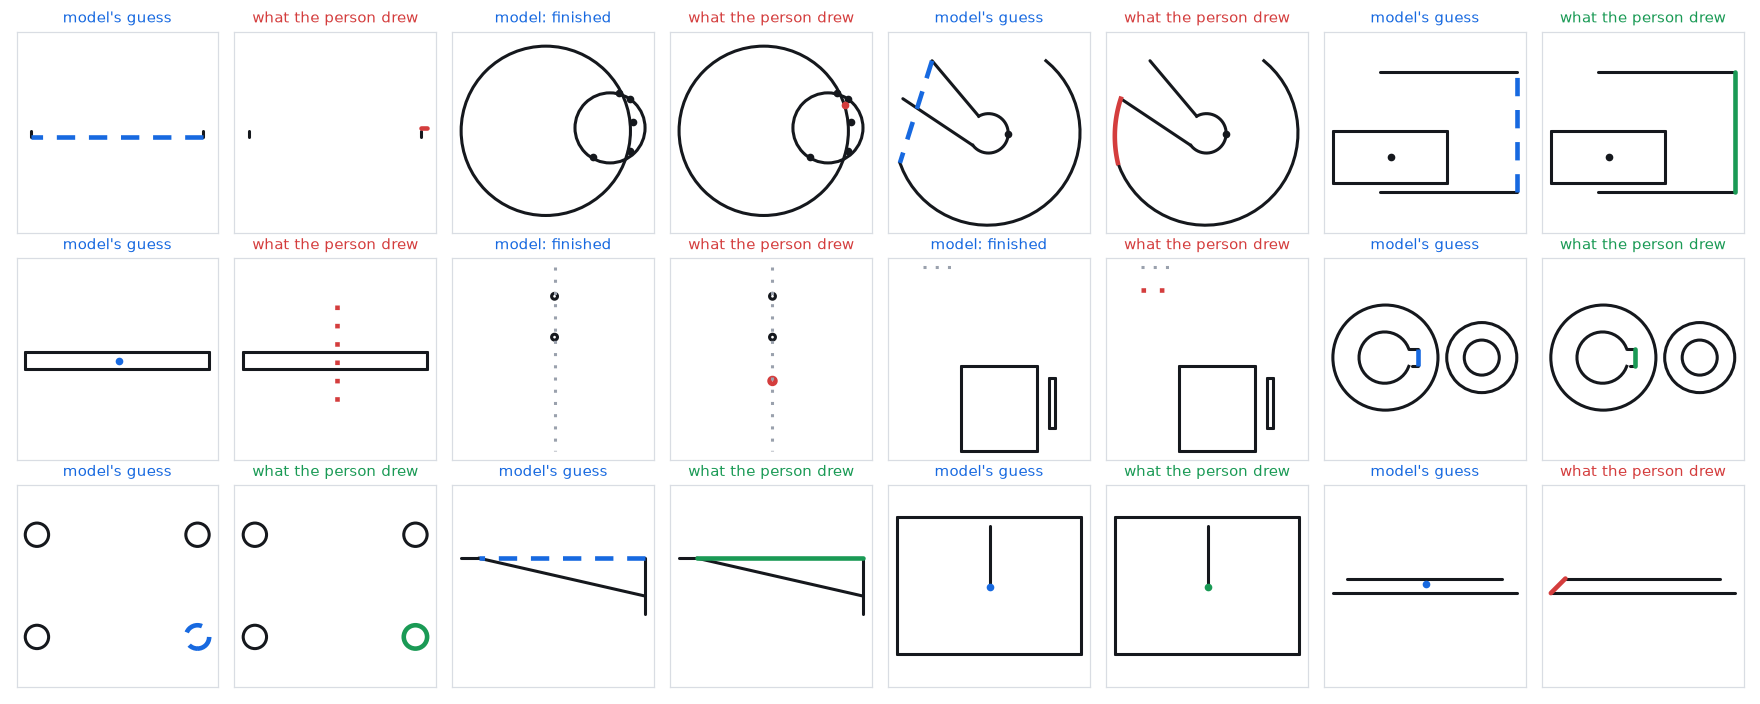
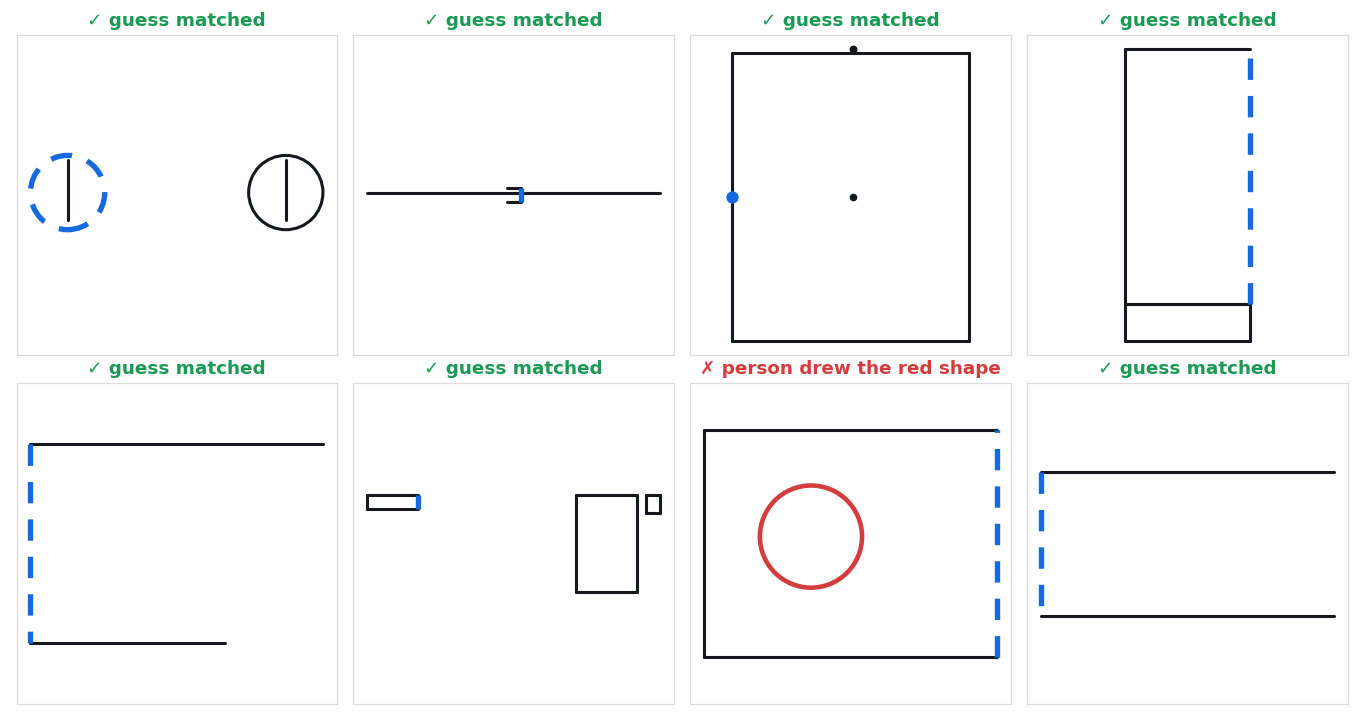
Results moved up and sized down; example picture shows guesses the model was sure of

diff --git a/web/body.html b/web/body.html
@@ -40,7 +40,14 @@
     </div>
   </div>
   <section class="sk-how">
-    <h2 class="sk-how-title">The system design</h2>
+    <h2 class="sk-how-title">Results</h2>
+    <p class="sk-sub" style="margin:0">Tested on 5,000 sketches the model never saw.</p>
+    <div id="pictures">
+      <figure><img src="/sketch/scores.png" alt="Bar chart: top guess exactly right 43%, right shape in the top three 54%, right kind of shape 74%" loading="lazy"></figure>
+      <figure><img src="/sketch/training.png" alt="Line chart: error on training sketches and on unseen sketches fall together over 60,000 steps" loading="lazy"><figcaption>Error on training and unseen sketches fell together: learning, not memorising.</figcaption></figure>
+      <figure class="sk-wide"><img src="/sketch/examples.png" alt="Eight test sketches with the model's guess for the next shape drawn dashed; seven matched what the person drew" loading="lazy"><figcaption>Eight test sketches picked at random from the times the model was at least 50% sure. It is right on 77% of those. Dashed: the guess.</figcaption></figure>
+    </div>
+    <h2 class="sk-how-title" style="margin-top:28px">The system design</h2>
     <p class="sk-sub" style="margin:0">Top row: what happens each time you draw. Bottom row: how the model was made.</p>
     <div class="sk-diagram-wrap"><svg class="sk-diagram" viewBox="0 0 980 420" role="img" aria-label="System design: on top, what happens when you draw; below, how the model was made beforehand."><defs><marker id="sk-arrow" viewBox="0 0 10 10" refX="9" refY="5" markerWidth="7" markerHeight="7" orient="auto-start-reverse"><path class="sk-d-head" d="M0,0 L10,5 L0,10 z"/></marker><marker id="sk-arrow-dim" viewBox="0 0 10 10" refX="9" refY="5" markerWidth="7" markerHeight="7" orient="auto-start-reverse"><path class="sk-d-head-dim" d="M0,0 L10,5 L0,10 z"/></marker></defs><text class="sk-d-row" x="20" y="52">WHEN YOU DRAW · in your browser, no server</text><rect class="sk-d-box" x="20" y="64" width="150" height="66" rx="8"/><text class="sk-d-t" x="95.0" y="86">You draw</text><text class="sk-d-s" x="95.0" y="103">a line, circle, arc</text><text class="sk-d-s" x="95.0" y="117">or point</text><rect class="sk-d-box" x="216" y="64" width="150" height="66" rx="8"/><text class="sk-d-t" x="291.0" y="86">This page</text><text class="sk-d-s" x="291.0" y="103">turns your shapes</text><text class="sk-d-s" x="291.0" y="117">into numbers</text><path class="sk-d-a" d="M172,97.0 H213" marker-end="url(#sk-arrow)"/><rect class="sk-d-box sk-d-live" x="412" y="64" width="150" height="66" rx="8"/><text class="sk-d-t" x="487.0" y="86">The model</text><text class="sk-d-s" x="487.0" y="103">runs in your browser</text><text class="sk-d-s" x="487.0" y="117">0.13 seconds</text><path class="sk-d-a" d="M368,97.0 H409" marker-end="url(#sk-arrow)"/><rect class="sk-d-box" x="608" y="64" width="150" height="66" rx="8"/><text class="sk-d-t" x="683.0" y="86">Three guesses</text><text class="sk-d-s" x="683.0" y="103">best first, shown</text><text class="sk-d-s" x="683.0" y="117">as dashed shapes</text><path class="sk-d-a" d="M564,97.0 H605" marker-end="url(#sk-arrow)"/><rect class="sk-d-box" x="804" y="64" width="150" height="66" rx="8"/><text class="sk-d-t" x="879.0" y="86">You decide</text><text class="sk-d-s" x="879.0" y="103">Tab takes a guess,</text><text class="sk-d-s" x="879.0" y="117">or keep drawing</text><path class="sk-d-a" d="M760,97.0 H801" marker-end="url(#sk-arrow)"/><text class="sk-d-row" x="20" y="306">BEFOREHAND · once, on a rented GPU</text><path class="sk-d-store" d="M20,325 v52 a66.0,7 0 0 0 132,0 v-52 a66.0,7 0 0 0 -132,0 a66.0,7 0 0 0 132,0"/><text class="sk-d-t" x="86.0" y="348">Public sketches</text><text class="sk-d-s" x="86.0" y="364">9.2 million</text><rect class="sk-d-box" x="182" y="318" width="132" height="66" rx="8"/><text class="sk-d-t" x="248.0" y="340">Cleaning</text><text class="sk-d-s" x="248.0" y="357">drop copies, keep</text><text class="sk-d-s" x="248.0" y="371">the test honest</text><path class="sk-d-store" d="M344,325 v52 a66.0,7 0 0 0 132,0 v-52 a66.0,7 0 0 0 -132,0 a66.0,7 0 0 0 132,0"/><text class="sk-d-t" x="410.0" y="348">Training rows</text><text class="sk-d-s" x="410.0" y="364">2.5 million</text><rect class="sk-d-box" x="506" y="318" width="132" height="66" rx="8"/><text class="sk-d-t" x="572.0" y="340">Training</text><text class="sk-d-s" x="572.0" y="357">guess, correct,</text><text class="sk-d-s" x="572.0" y="371">nudge the weights</text><path class="sk-d-store" d="M668,325 v52 a66.0,7 0 0 0 132,0 v-52 a66.0,7 0 0 0 -132,0 a66.0,7 0 0 0 132,0"/><text class="sk-d-t" x="734.0" y="348">Saved copies</text><text class="sk-d-s" x="734.0" y="364">cloud storage</text><rect class="sk-d-box" x="830" y="318" width="132" height="66" rx="8"/><text class="sk-d-t" x="896.0" y="340">Export</text><text class="sk-d-s" x="896.0" y="357">same answers on</text><text class="sk-d-s" x="896.0" y="371">GPU and in browser</text><path class="sk-d-a" d="M154,351.0 H179" marker-end="url(#sk-arrow)"/><path class="sk-d-a" d="M316,351.0 H341" marker-end="url(#sk-arrow)"/><path class="sk-d-a" d="M478,351.0 H503" marker-end="url(#sk-arrow)"/><path class="sk-d-a" d="M640,351.0 H665" marker-end="url(#sk-arrow)"/><path class="sk-d-a" d="M802,351.0 H827" marker-end="url(#sk-arrow)"/><rect class="sk-d-box" x="654" y="206" width="160" height="58" rx="8"/><text class="sk-d-t" x="734.0" y="228">Scoring</text><text class="sk-d-s" x="734.0" y="245">unseen sketches:</text><text class="sk-d-s" x="734.0" y="259">precision and recall</text><path class="sk-d-a" d="M734,320 V267" marker-end="url(#sk-arrow)"/><path class="sk-d-a" d="M896,318 V168 H487 V133" marker-end="url(#sk-arrow)"/><text class="sk-d-lab" x="500" y="160">the trained model, a 9 MB file</text><path class="sk-d-a sk-d-later" d="M879,64 V22 H8 V351.0 H17" marker-end="url(#sk-arrow-dim)"/><text class="sk-d-lab sk-d-lab-later" x="490" y="16" text-anchor="middle">not built yet: learn from the guesses people take or ignore</text></svg></div>
     <h2 class="sk-how-title" style="margin-top:28px">How this was made</h2>
@@ -80,12 +87,6 @@
         <p><b>A silent wait.</b> That first run printed nothing, so there was no telling stuck from slow. It was restarted with progress messages.</p>
         <p><b>Missing tools.</b> The rented machine lacked the file-copy tool and parts of the data reader; each was installed by hand.</p>
         <p class="sk-lesson"><b>Since then:</b> every long job reports its progress.</p></div>
-    </div>
-    <h2 class="sk-how-title" style="margin-top:28px">Results</h2>
-    <div id="pictures">
-      <figure><img src="/sketch/scores.png" alt="Bar chart: top guess exactly right 43%, right shape in the top three 54%, right kind of shape 75%" loading="lazy"></figure>
-      <figure><img src="/sketch/examples.png" alt="Twelve test sketches: beside each, the model's guess for the next shape and what the person really drew" loading="lazy"><figcaption>Twelve test sketches picked at random. Left of each pair: the model's guess, dashed. Right: what the person drew, green when the guess matched and red when it did not.</figcaption></figure>
-      <figure><img src="/sketch/training.png" alt="Line chart: error on training sketches and on unseen sketches fall together over 60,000 steps" loading="lazy"><figcaption>Error on training sketches and on unseen sketches fell together, so the model was learning rather than memorising.</figcaption></figure>
     </div>
     <h2 class="sk-how-title" style="margin-top:28px">Not done yet</h2>
     <p class="sk-sub" style="margin:0">It guesses shapes only, not the rules between them (parallel, equal, mirrored), which the data also holds. It handles up to 16 shapes on a 64 × 64 grid. It does not yet learn from which guesses people take.</p>

diff --git a/web/index.html b/web/index.html
@@ -52,7 +52,14 @@
     </div>
   </div>
   <section class="sk-how">
-    <h2 class="sk-how-title">The system design</h2>
+    <h2 class="sk-how-title">Results</h2>
+    <p class="sk-sub" style="margin:0">Tested on 5,000 sketches the model never saw.</p>
+    <div id="pictures">
+      <figure><img src="scores.png" alt="Bar chart: top guess exactly right 43%, right shape in the top three 54%, right kind of shape 74%" loading="lazy"></figure>
+      <figure><img src="training.png" alt="Line chart: error on training sketches and on unseen sketches fall together over 60,000 steps" loading="lazy"><figcaption>Error on training and unseen sketches fell together: learning, not memorising.</figcaption></figure>
+      <figure class="sk-wide"><img src="examples.png" alt="Eight test sketches with the model's guess for the next shape drawn dashed; seven matched what the person drew" loading="lazy"><figcaption>Eight test sketches picked at random from the times the model was at least 50% sure. It is right on 77% of those. Dashed: the guess.</figcaption></figure>
+    </div>
+    <h2 class="sk-how-title" style="margin-top:28px">The system design</h2>
     <p class="sk-sub" style="margin:0">Top row: what happens each time you draw. Bottom row: how the model was made.</p>
     <div class="sk-diagram-wrap"><svg class="sk-diagram" viewBox="0 0 980 420" role="img" aria-label="System design: on top, what happens when you draw; below, how the model was made beforehand."><defs><marker id="sk-arrow" viewBox="0 0 10 10" refX="9" refY="5" markerWidth="7" markerHeight="7" orient="auto-start-reverse"><path class="sk-d-head" d="M0,0 L10,5 L0,10 z"/></marker><marker id="sk-arrow-dim" viewBox="0 0 10 10" refX="9" refY="5" markerWidth="7" markerHeight="7" orient="auto-start-reverse"><path class="sk-d-head-dim" d="M0,0 L10,5 L0,10 z"/></marker></defs><text class="sk-d-row" x="20" y="52">WHEN YOU DRAW · in your browser, no server</text><rect class="sk-d-box" x="20" y="64" width="150" height="66" rx="8"/><text class="sk-d-t" x="95.0" y="86">You draw</text><text class="sk-d-s" x="95.0" y="103">a line, circle, arc</text><text class="sk-d-s" x="95.0" y="117">or point</text><rect class="sk-d-box" x="216" y="64" width="150" height="66" rx="8"/><text class="sk-d-t" x="291.0" y="86">This page</text><text class="sk-d-s" x="291.0" y="103">turns your shapes</text><text class="sk-d-s" x="291.0" y="117">into numbers</text><path class="sk-d-a" d="M172,97.0 H213" marker-end="url(#sk-arrow)"/><rect class="sk-d-box sk-d-live" x="412" y="64" width="150" height="66" rx="8"/><text class="sk-d-t" x="487.0" y="86">The model</text><text class="sk-d-s" x="487.0" y="103">runs in your browser</text><text class="sk-d-s" x="487.0" y="117">0.13 seconds</text><path class="sk-d-a" d="M368,97.0 H409" marker-end="url(#sk-arrow)"/><rect class="sk-d-box" x="608" y="64" width="150" height="66" rx="8"/><text class="sk-d-t" x="683.0" y="86">Three guesses</text><text class="sk-d-s" x="683.0" y="103">best first, shown</text><text class="sk-d-s" x="683.0" y="117">as dashed shapes</text><path class="sk-d-a" d="M564,97.0 H605" marker-end="url(#sk-arrow)"/><rect class="sk-d-box" x="804" y="64" width="150" height="66" rx="8"/><text class="sk-d-t" x="879.0" y="86">You decide</text><text class="sk-d-s" x="879.0" y="103">Tab takes a guess,</text><text class="sk-d-s" x="879.0" y="117">or keep drawing</text><path class="sk-d-a" d="M760,97.0 H801" marker-end="url(#sk-arrow)"/><text class="sk-d-row" x="20" y="306">BEFOREHAND · once, on a rented GPU</text><path class="sk-d-store" d="M20,325 v52 a66.0,7 0 0 0 132,0 v-52 a66.0,7 0 0 0 -132,0 a66.0,7 0 0 0 132,0"/><text class="sk-d-t" x="86.0" y="348">Public sketches</text><text class="sk-d-s" x="86.0" y="364">9.2 million</text><rect class="sk-d-box" x="182" y="318" width="132" height="66" rx="8"/><text class="sk-d-t" x="248.0" y="340">Cleaning</text><text class="sk-d-s" x="248.0" y="357">drop copies, keep</text><text class="sk-d-s" x="248.0" y="371">the test honest</text><path class="sk-d-store" d="M344,325 v52 a66.0,7 0 0 0 132,0 v-52 a66.0,7 0 0 0 -132,0 a66.0,7 0 0 0 132,0"/><text class="sk-d-t" x="410.0" y="348">Training rows</text><text class="sk-d-s" x="410.0" y="364">2.5 million</text><rect class="sk-d-box" x="506" y="318" width="132" height="66" rx="8"/><text class="sk-d-t" x="572.0" y="340">Training</text><text class="sk-d-s" x="572.0" y="357">guess, correct,</text><text class="sk-d-s" x="572.0" y="371">nudge the weights</text><path class="sk-d-store" d="M668,325 v52 a66.0,7 0 0 0 132,0 v-52 a66.0,7 0 0 0 -132,0 a66.0,7 0 0 0 132,0"/><text class="sk-d-t" x="734.0" y="348">Saved copies</text><text class="sk-d-s" x="734.0" y="364">cloud storage</text><rect class="sk-d-box" x="830" y="318" width="132" height="66" rx="8"/><text class="sk-d-t" x="896.0" y="340">Export</text><text class="sk-d-s" x="896.0" y="357">same answers on</text><text class="sk-d-s" x="896.0" y="371">GPU and in browser</text><path class="sk-d-a" d="M154,351.0 H179" marker-end="url(#sk-arrow)"/><path class="sk-d-a" d="M316,351.0 H341" marker-end="url(#sk-arrow)"/><path class="sk-d-a" d="M478,351.0 H503" marker-end="url(#sk-arrow)"/><path class="sk-d-a" d="M640,351.0 H665" marker-end="url(#sk-arrow)"/><path class="sk-d-a" d="M802,351.0 H827" marker-end="url(#sk-arrow)"/><rect class="sk-d-box" x="654" y="206" width="160" height="58" rx="8"/><text class="sk-d-t" x="734.0" y="228">Scoring</text><text class="sk-d-s" x="734.0" y="245">unseen sketches:</text><text class="sk-d-s" x="734.0" y="259">precision and recall</text><path class="sk-d-a" d="M734,320 V267" marker-end="url(#sk-arrow)"/><path class="sk-d-a" d="M896,318 V168 H487 V133" marker-end="url(#sk-arrow)"/><text class="sk-d-lab" x="500" y="160">the trained model, a 9 MB file</text><path class="sk-d-a sk-d-later" d="M879,64 V22 H8 V351.0 H17" marker-end="url(#sk-arrow-dim)"/><text class="sk-d-lab sk-d-lab-later" x="490" y="16" text-anchor="middle">not built yet: learn from the guesses people take or ignore</text></svg></div>
     <h2 class="sk-how-title" style="margin-top:28px">How this was made</h2>
@@ -92,12 +99,6 @@
         <p><b>A silent wait.</b> That first run printed nothing, so there was no telling stuck from slow. It was restarted with progress messages.</p>
         <p><b>Missing tools.</b> The rented machine lacked the file-copy tool and parts of the data reader; each was installed by hand.</p>
         <p class="sk-lesson"><b>Since then:</b> every long job reports its progress.</p></div>
-    </div>
-    <h2 class="sk-how-title" style="margin-top:28px">Results</h2>
-    <div id="pictures">
-      <figure><img src="scores.png" alt="Bar chart: top guess exactly right 43%, right shape in the top three 54%, right kind of shape 75%" loading="lazy"></figure>
-      <figure><img src="examples.png" alt="Twelve test sketches: beside each, the model's guess for the next shape and what the person really drew" loading="lazy"><figcaption>Twelve test sketches picked at random. Left of each pair: the model's guess, dashed. Right: what the person drew, green when the guess matched and red when it did not.</figcaption></figure>
-      <figure><img src="training.png" alt="Line chart: error on training sketches and on unseen sketches fall together over 60,000 steps" loading="lazy"><figcaption>Error on training sketches and on unseen sketches fell together, so the model was learning rather than memorising.</figcaption></figure>
     </div>
     <h2 class="sk-how-title" style="margin-top:28px">Not done yet</h2>
     <p class="sk-sub" style="margin:0">It guesses shapes only, not the rules between them (parallel, equal, mirrored), which the data also holds. It handles up to 16 shapes on a 64 × 64 grid. It does not yet learn from which guesses people take.</p>

diff --git a/web/sketch.css b/web/sketch.css
@@ -52,7 +52,10 @@ html[data-theme="dark"] .sk { --sk-panel:#2c2739; --sk-ink:#eee9f5; --sk-dim:#bf
 .sk .sk-step p b { color:var(--sk-ink); }
 .sk .sk-big { display:block; font-size:22px; font-weight:700; color:var(--sk-ink); margin-top:8px; font-variant-numeric:tabular-nums; }
 .sk .sk-step .sk-lesson { margin-top:8px; padding-top:8px; border-top:1px dashed var(--sk-line); font-size:13px; }
-.sk #pictures figure { margin:12px 0 0; }
+.sk #pictures { display:grid; grid-template-columns:repeat(2, minmax(0, 340px)); gap:12px 16px; margin-top:12px; }
+.sk #pictures figure { margin:0; }
+.sk #pictures .sk-wide { grid-column:1 / -1; max-width:696px; }
+@media (max-width:640px) { .sk #pictures { grid-template-columns:1fr; } }
 .sk #pictures img { display:block; max-width:100%; height:auto; border-radius:8px; border:1px solid var(--sk-line); background:#fff; }
 .sk #pictures figcaption { color:var(--sk-dim); font-size:13px; margin-top:6px; }
 .sk .sk-diagram-wrap { overflow-x:auto; margin-top:12px; background:var(--sk-panel); border:1px solid var(--sk-line); border-radius:10px; padding:12px; }

diff --git a/examples.py b/examples.py
@@ -1,0 +1,93 @@
+"""Picture of example guesses for the page and the README.
+
+    python examples.py TOKENS_DIR RUN_DIR/best.pt docs/examples.png [min_confidence=0.5] [count=8]
+
+Takes test sketches in a random order, hides the next shape at a random point, and keeps the first `count` cases where the
+model's top guess had at least `min_confidence` probability: the cases an autocomplete that only speaks up when sure would
+show. Each panel: the sketch so far (black), the guess (dashed blue), and, when the guess was wrong, what the person drew (red).
+"""
+import sys
+import numpy as np, torch
+import matplotlib
+matplotlib.use("Agg")
+import matplotlib.pyplot as plt
+from matplotlib.patches import Circle as CirclePatch
+from model import SketchGPT
+from suggest import next_shapes
+from tokens import *
+
+data, ckpt, out = sys.argv[1:4]
+bar = float(sys.argv[4]) if len(sys.argv) > 4 else 0.5
+count = int(sys.argv[5]) if len(sys.argv) > 5 else 8
+INK, HELP, BLUE, GREEN, RED = "#15181d", "#9aa1ad", "#1769e0", "#1a9a55", "#d43d3d"
+dev = torch.device("cuda" if torch.cuda.is_available() else "cpu")
+
+
+def circle_through(a, b, c):
+    d = 2 * (a[0] * (b[1] - c[1]) + b[0] * (c[1] - a[1]) + c[0] * (a[1] - b[1]))
+    if abs(d) < 1e-6:
+        return None
+    A, B, C = a[0] ** 2 + a[1] ** 2, b[0] ** 2 + b[1] ** 2, c[0] ** 2 + c[1] ** 2
+    x = (A * (b[1] - c[1]) + B * (c[1] - a[1]) + C * (a[1] - b[1])) / d
+    y = (A * (c[0] - b[0]) + B * (a[0] - c[0]) + C * (b[0] - a[0])) / d
+    return x, y, float(np.hypot(a[0] - x, a[1] - y))
+
+
+def draw(ax, ent, color, lw=2.0, ghost=False):
+    t, c = ent
+    b = base_type(t)
+    ls = (0, (4, 3)) if ghost else ((0, (1, 3)) if t > POINT else "-")
+    if b == LINE:
+        ax.plot([c[0], c[2]], [c[1], c[3]], color=color, lw=lw, ls=ls, solid_capstyle="round")
+    elif b == CIRCLE:
+        ax.add_patch(CirclePatch((c[0], c[1]), c[2], fill=False, color=color, lw=lw, ls=ls))
+    elif b == POINT:
+        ax.plot([c[0]], [c[1]], "o", color=color, ms=7 if ghost or lw > 2 else 4)
+    else:
+        circ = circle_through(c[0:2], c[2:4], c[4:6])
+        if not circ:
+            ax.plot(c[0::2], c[1::2], color=color, lw=lw, ls=ls); return
+        x, y, r = circ
+        a0, am, a1 = (np.arctan2(c[i + 1] - y, c[i] - x) for i in (0, 2, 4))
+        tau = 2 * np.pi
+        sweep = (a1 - a0) % tau if (am - a0) % tau <= (a1 - a0) % tau else -((a0 - a1) % tau)
+        ang = a0 + sweep * np.linspace(0, 1, 40)
+        ax.plot(x + r * np.cos(ang), y + r * np.sin(ang), color=color, lw=lw, ls=ls)
+
+
+ck = torch.load(ckpt, map_location=dev)
+model = SketchGPT(**ck["cfg"]).to(dev).eval(); model.load_state_dict(ck["state"])
+rows = np.load(f"{data}/test.npy")
+rng = np.random.default_rng(7)
+picks, tried, right = [], 0, 0
+for row in rows[rng.permutation(len(rows))]:
+    ents = split_entities(row)
+    if not 4 <= len(ents) <= 12:
+        continue
+    k = int(rng.integers(2, len(ents)))
+    n = 1 + sum(1 + len(c) for _, c in ents[:k])
+    p, guess = next_shapes(model, torch.from_numpy(row[:n].astype(np.int64))[None].to(dev), 5)[0][0]
+    tried += 1
+    if p < bar or guess[0] == EOS:
+        continue
+    got = (guess[0], [x - COORD0 for x in guess[1:]])
+    ok = canonical(got) == canonical(ents[k])
+    right += ok
+    picks.append((ents, k, got, ok, p))
+    if len(picks) == count:
+        break
+cols = count // 2
+fig, axes = plt.subplots(2, cols, figsize=(3.1 * cols, 6.6))
+for ax, (ents, k, got, ok, p) in zip(axes.flat, picks):
+    ax.set_xlim(-3, 66); ax.set_ylim(-3, 66); ax.set_aspect("equal"); ax.set_xticks([]); ax.set_yticks([])
+    for s in ax.spines.values():
+        s.set_color("#d9dde3")
+    for e in ents[:k]:
+        draw(ax, e, HELP if e[0] > POINT else INK)
+    if not ok:
+        draw(ax, ents[k], RED, lw=3)
+    draw(ax, got, BLUE, lw=3.5, ghost=True)
+    ax.set_title("✓ guess matched" if ok else "✗ person drew the red shape", fontsize=12, color=GREEN if ok else RED, weight="bold")
+fig.tight_layout()
+fig.savefig(out, dpi=110); plt.close(fig)
+print(f"{right} of {len(picks)} shown guesses matched; {len(picks)} kept out of {tried} cases tried (bar {bar})")

diff --git a/viz.py b/viz.py
@@ -54,36 +54,7 @@ def frame(ax):
         s.set_color("#d9dde3")
 
 
-# ---- example guesses ----
-ck = torch.load(f"{run}/best.pt", map_location="cuda")
-model = SketchGPT(**ck["cfg"]).cuda().eval(); model.load_state_dict(ck["state"])
-rows = np.load(f"{data}/test.npy")
-rng = np.random.default_rng(3)
-picks = []
-for row in rows[rng.permutation(len(rows))]:
-    ents = split_entities(row)
-    if 4 <= len(ents) <= 12:
-        picks.append((row, ents, int(rng.integers(2, len(ents)))))
-    if len(picks) == 12:
-        break
-fig, axes = plt.subplots(3, 8, figsize=(16, 6.4))
-for i, (row, ents, k) in enumerate(picks):
-    n = 1 + sum(1 + len(c) for _, c in ents[:k])
-    guess = next_shapes(model, torch.from_numpy(row[:n].astype(np.int64))[None].cuda(), 5)[0][0][1]
-    truth = ents[k]
-    got = None if guess[0] == EOS else (guess[0], [x - COORD0 for x in guess[1:]])
-    right = got is not None and canonical(got) == canonical(truth)
-    a, b = axes[i // 4][(i % 4) * 2], axes[i // 4][(i % 4) * 2 + 1]
-    for ax, extra, color, ghost in ((a, got, BLUE, True), (b, truth, GREEN if right else RED, False)):
-        frame(ax)
-        for e in ents[:k]:
-            draw(ax, e, HELP if e[0] > POINT else INK)
-        if extra:
-            draw(ax, extra, color, lw=3, ghost=ghost)
-    a.set_title("model's guess" if got else "model: finished", fontsize=10, color=BLUE)
-    b.set_title("what the person drew", fontsize=10, color=GREEN if right else RED)
-fig.tight_layout()
-fig.savefig(f"{out}/examples.png", dpi=110); plt.close(fig)
+# ---- example guesses: see examples.py (python examples.py TOKENS RUN/best.pt docs/examples.png) ----
 
 # ---- score bars ----
 ev = json.load(open(f"{run}/eval.json"))

diff --git a/docs/build-log.md b/docs/build-log.md
@@ -53,6 +53,12 @@ Everything done on this project, in order, so it can be explained on the page (w
     "what a project like this takes" section, the name of the book being studied) were removed. The system design sits
     above "How this was made". Results, pictures and a "Not done yet" note were added with the finished model.
 
+17. **Results moved up, example picture redone.** Clark: the results took too much of the page, and the guesses in the
+    example picture were almost all wrong. Results now sit right under the demo in a compact grid. The old picture
+    showed the top guess at random steps (right 43% of the time, so mostly misses). `examples.py` now picks random
+    test cases where the model was at least 50% sure (it is right on 77% of those; 7 of the 8 shown matched), and the
+    caption says so. The overall 43% stays on the score bars.
+
 ## Things that went wrong
 - The pod image lacked rsync and the data reader's extras (matplotlib, lz4); installed by hand.
 - prep.py first used 96 worker processes because the machine reports 128 processors, but the pod only gets about 18.
